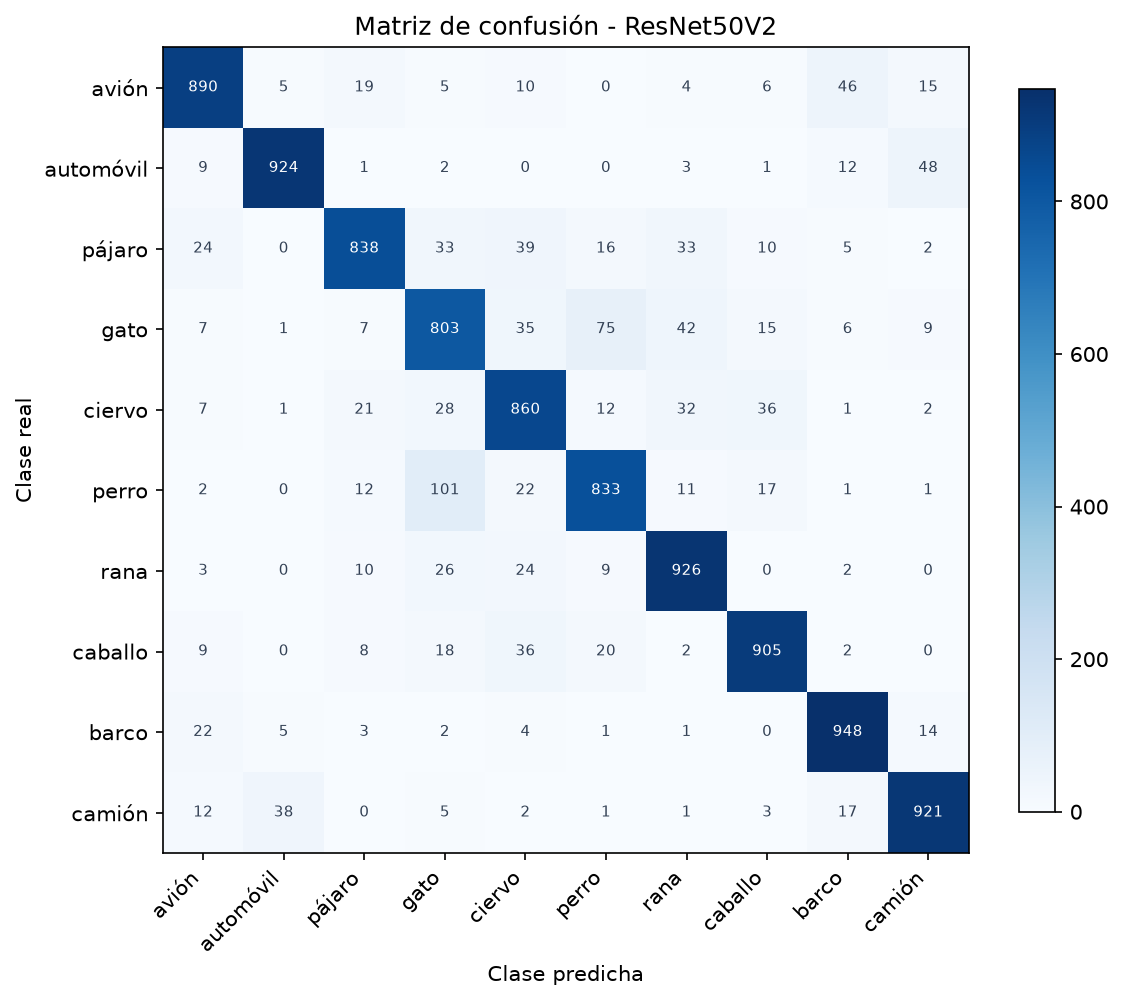
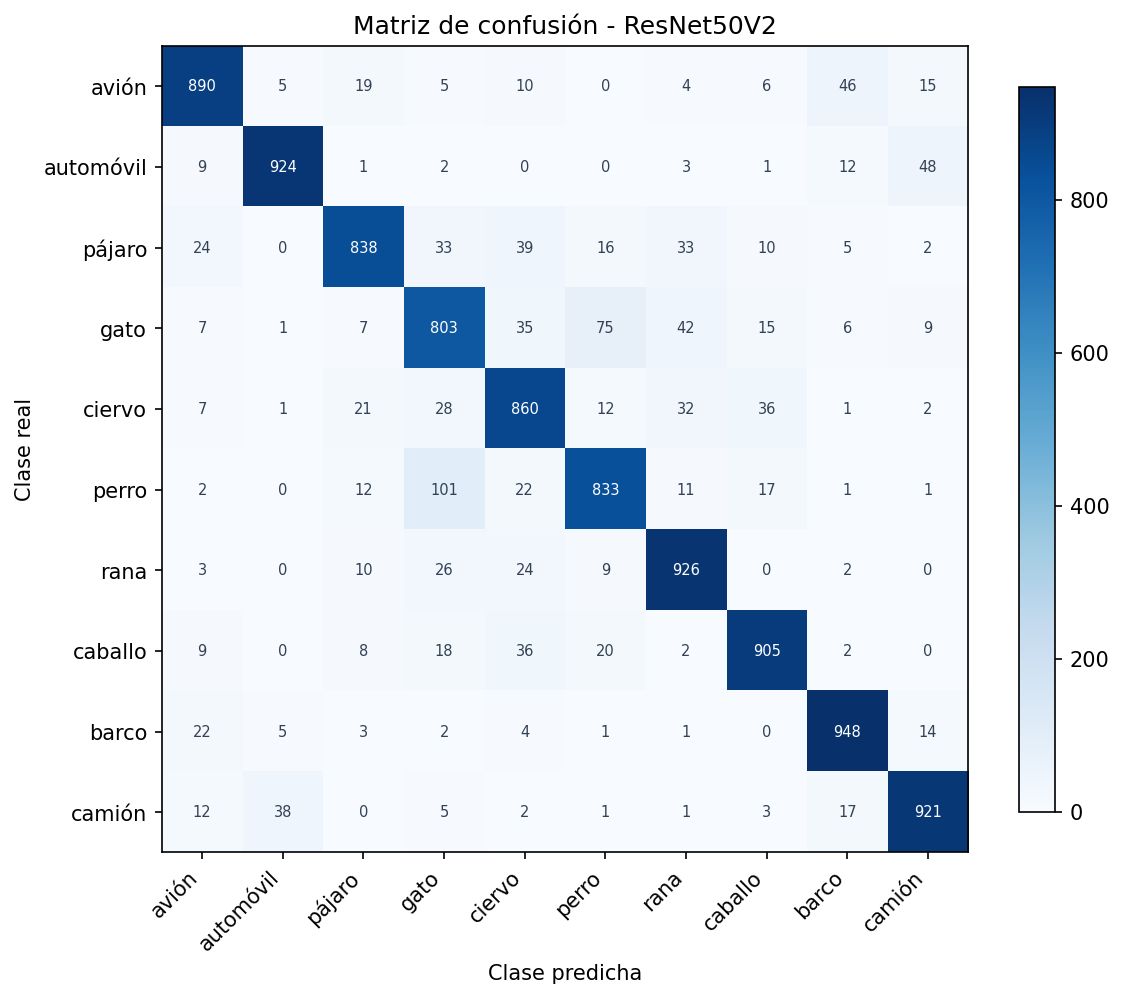
Se arregló la diagonal de la matriz de confusión normalizada

diff --git a/templates/index.html b/templates/index.html
@@ -156,7 +156,7 @@
   La imagen que subas se redimensiona y se normaliza antes de pasar por la red,
   tal como se describe en el documento del proyecto.
 
-  Privacidad: La imagen seleccionada se procesa en memoria para realizar la clasificación y no se almacena en el servidor.
+  <strong>Privacidad: la imagen seleccionada se procesa en memoria para realizar la clasificación y no se almacena.</strong>
 </footer>
 
 <script>

diff --git a/evaluar_v2.py b/evaluar_v2.py
@@ -17,6 +17,7 @@ from sklearn.metrics import (
     precision_score,
     recall_score
 )
+from matplotlib.ticker import PercentFormatter
 
 import matplotlib
 matplotlib.use("Agg")
@@ -214,6 +215,7 @@ fig.savefig(
 plt.close(fig)
 
 
+
 # 6.2 Matriz de confusión normalizada
 
 fig, eje = plt.subplots(figsize=(8, 7), dpi=150)
@@ -222,7 +224,7 @@ im = eje.imshow(
     mc_normalizada,
     cmap="Blues",
     vmin=0,
-    vmax=100
+    vmax=1
 )
 
 eje.set_xticks(range(len(CLASES)))
@@ -239,21 +241,23 @@ umbral = 0.5
 
 for i in range(len(CLASES)):
     for j in range(len(CLASES)):
+        valor = mc_normalizada[i, j]
+
         eje.text(
             j,
             i,
-            f"{mc_normalizada[i, j]:.1%}",
+            f"{valor:.1%}",
             ha="center",
             va="center",
             fontsize=7,
-            color="white" if mc_normalizada[i, j] > umbral else "#334155"
+            color="white" if valor > umbral else "#334155"
         )
 
 fig.colorbar(
     im,
     ax=eje,
     shrink=0.8,
-    format="%.0f%%"
+    format=PercentFormatter(xmax=1)
 )
 
 fig.tight_layout()
